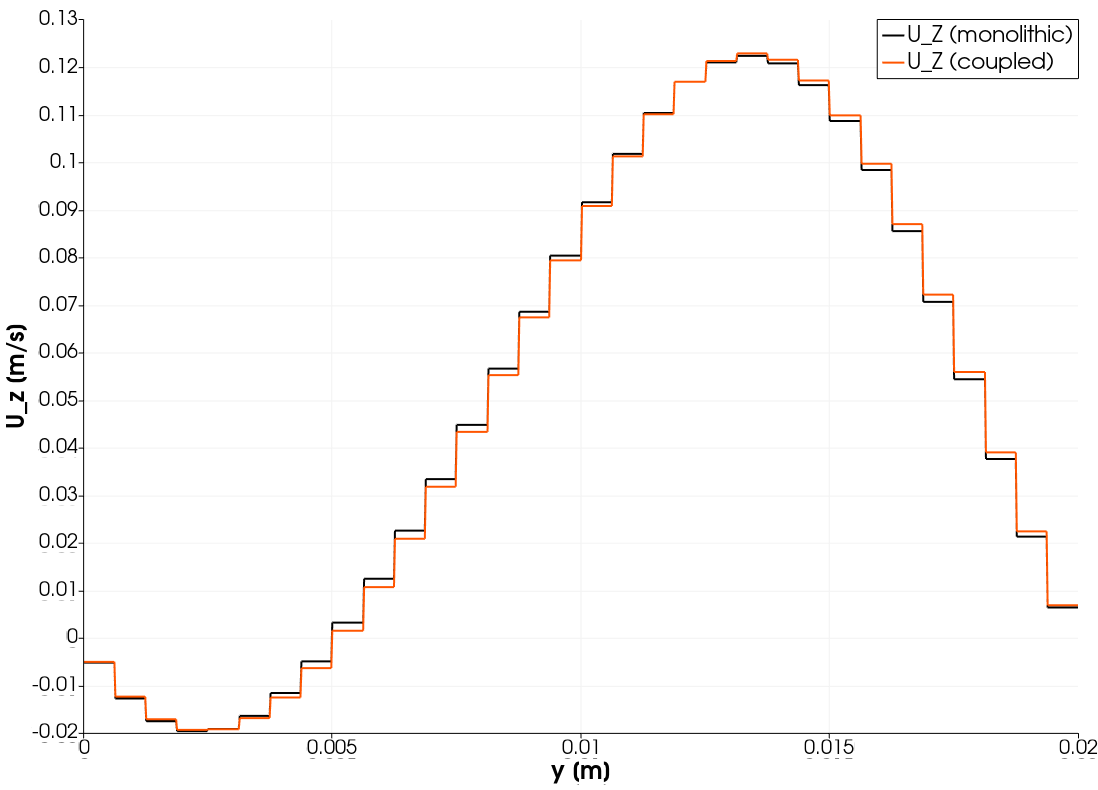
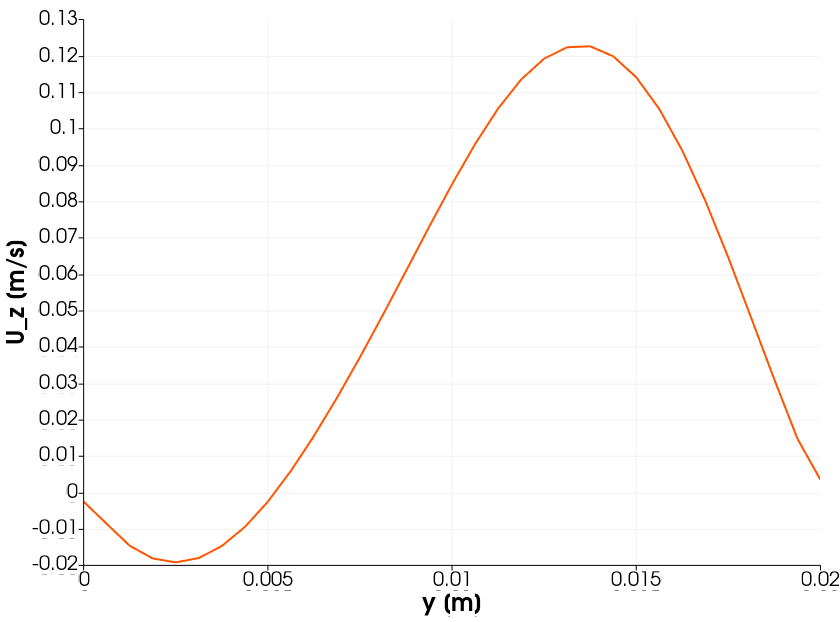
update READMEs

diff --git a/flow-over-heated-plate-partitioned-flow/README.md b/flow-over-heated-plate-partitioned-flow/README.md
@@ -13,7 +13,8 @@ Get the [case files of this tutorial](https://github.com/precice/tutorials/tree/
 
 The setup for this tutorial is similar to the [flow over a heated plate](https://www.precice.org/tutorials-flow-over-heated-plate.html). In this case we additionally partition the OpenFOAM fluid to create a three-way coupling using CHT (conjugate heat transfer) and FF (fluid-fluid coupling).
 
-The test case is two-dimensional and uses a serial-implicit coupling with Quasi-Newton acceleration for the fluid-fluid coupling. The CHT coupling between the solid and the fluid2 participant is changed to serial-explicit because it does not make sense numerically to have multiple serial-implicit schemes. (see also [here](https://precice.org/configuration-coupling-multi.html))
+The test case is two-dimensional and uses a serial-implicit coupling with Quasi-Newton acceleration for the fluid-fluid coupling. The CHT coupling between the solid and the fluid2 participant is changed to serial-explicit because it does not make sense numerically to have multiple serial-implicit schemes.  
+Note that it is usually recommended using the fully implicit parallel `coupling-scheme:multi` with more than two participants. (learn more about this [here](https://precice.org/configuration-coupling-multi.html)). However, in this basic example, it is sufficient to do the CHT coupling explicitly.
 
 The flow partitioning is done with the fluid-fluid module of the [preCICE OpenFOAM adapter](https://www.precice.org/adapter-openfoam-overview.html). Because we use buoyantPimpleFoam we have to tell the adapter that the coupled pressure has the name `p_rgh`. The temperature is coupled at the fluid-solid interface by exchanging *Temperature* and *Heat-Flux*, at the fluid-fluid interface it is *FlowTemperature* and *FlowTemperatureGradient*. Note the difference in naming: *Temperature* is used for conjugate heat transfer and *FlowTemperature* for fluid-fluid coupling.
 

diff --git a/partitioned-backwards-facing-step/README.md b/partitioned-backwards-facing-step/README.md
@@ -45,12 +45,9 @@ An example of the visualized expected results at $t=3.0s$ looks as follows:
 
 We observe that the velocity and pressure values are smooth across the interface. Going through different time steps, we can also see how our inlet-outlet boundary conditions accurately changed behavior when the recirculation travelled inside the coupling interface.
 
-However, if we look closely we can observe that the values around the interface don't match the monolithic solution perfectly:
+Plotting the velocity in z-direction over the coupling interface at $t=2.5s$ shows a smooth transition from negative to positive values:
 
 ![result](images/tutorials-partitioned-backwards-facing-step-sampled.png)
-
-Above graph shows the cell values of the velocity sampled along the coupling interface.
-It is possible to reduce the observed error by using a finer mesh around the interface. But keep in mind, that a finer mesh might require finer time steps as well!
 
 {% disclaimer %}
 This offering is not approved or endorsed by OpenCFD Limited, producer and distributor of the OpenFOAM software via www.openfoam.com, and owner of the OPENFOAM®  and OpenCFD®  trade marks.
